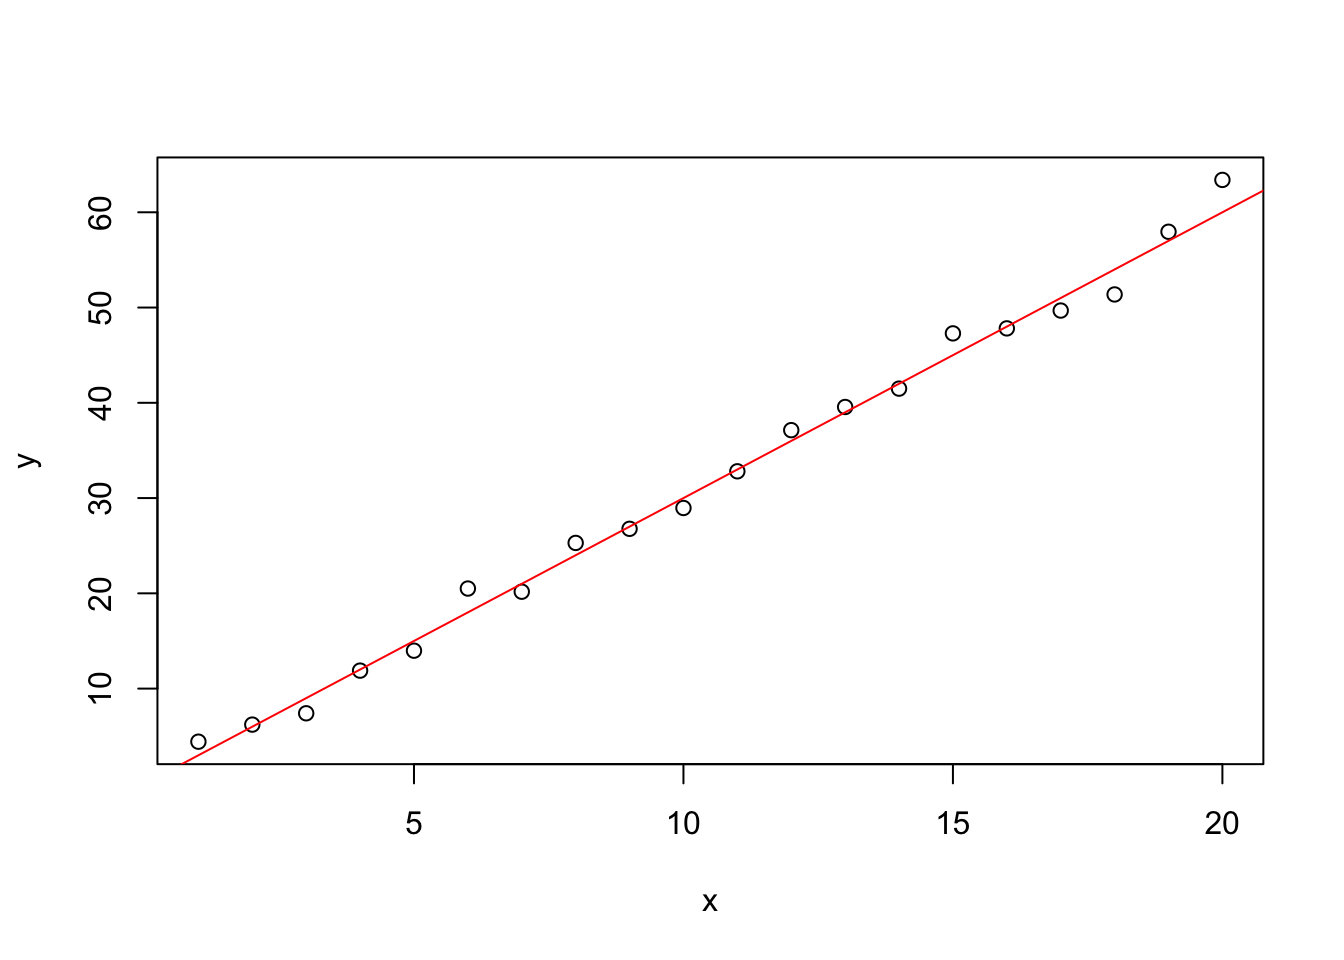
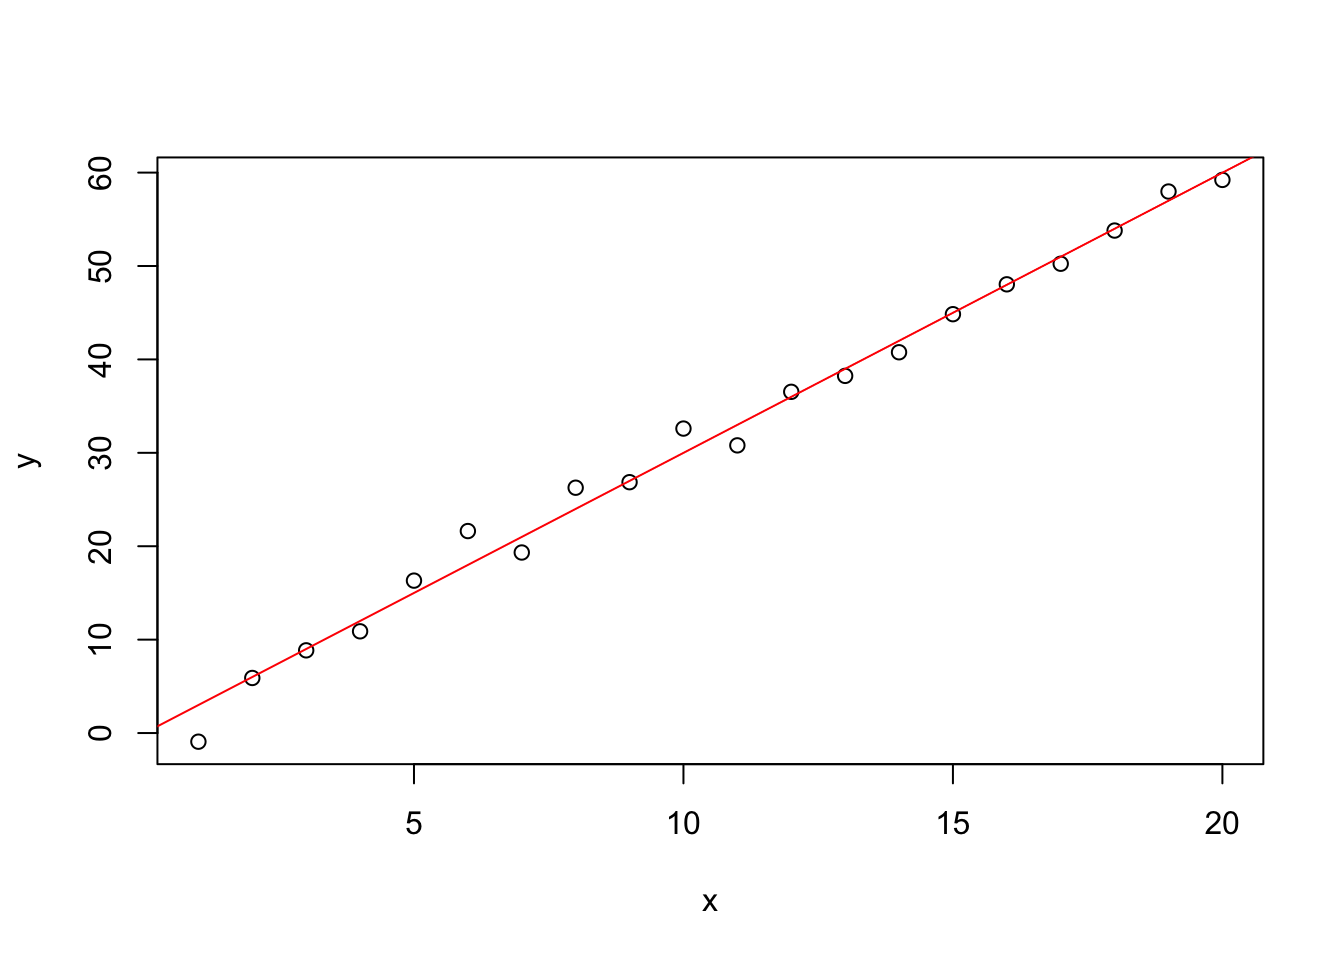
toyo97 published a site update

diff --git a/introduction.html b/introduction.html
@@ -24,7 +24,7 @@
 <meta name="author" content="Mauro Gasparini" />
 
 
-<meta name="date" content="2022-10-18" />
+<meta name="date" content="2022-10-25" />
 
   <meta name="viewport" content="width=device-width, initial-scale=1" />
   <meta name="apple-mobile-web-app-capable" content="yes" />
@@ -303,8 +303,8 @@ function argument passing (as introduced in <a href="introduction.html#functions
 <span id="cb11-2"><a href="introduction.html#cb11-2" aria-hidden="true" tabindex="-1"></a>array <span class="ot">&lt;-</span> <span class="fu">rnorm</span>(<span class="dv">10</span>, <span class="at">sd =</span> <span class="dv">10</span>) <span class="co"># sd is an argument, </span></span>
 <span id="cb11-3"><a href="introduction.html#cb11-3" aria-hidden="true" tabindex="-1"></a>                            <span class="co"># the mean is left to the default 0</span></span>
 <span id="cb11-4"><a href="introduction.html#cb11-4" aria-hidden="true" tabindex="-1"></a>array</span></code></pre></div>
-<pre><code>##  [1]  10.8837444   6.7989252 -12.9583565  -3.1014299  -4.2556705   5.7348895
-##  [7]   1.5498329  -2.1128799   0.1357968  12.9736815</code></pre>
+<pre><code>##  [1]  -5.8495927   3.0658810   3.1505459 -13.1579684  10.9447088  -7.6798204
+##  [7]  -0.1463405   7.0969139   6.4236959   1.8957723</code></pre>
 <p>You can explicitly call the arguments to which you want to pass the parameters
 (e.g. sd of the Gaussian). In this case it is necessary, because the second
 position argument is the mean, but we want it to be the default.</p>
@@ -657,26 +657,26 @@ most of the dataset will be stored in dataframes.</p>
 <span id="cb111-4"><a href="introduction.html#cb111-4" aria-hidden="true" tabindex="-1"></a>df1 <span class="co"># x was set to just one value and gets repeated (&#39;recycled&#39;)</span></span></code></pre></div>
 <pre><code>##    x  y char
 ## 1  1  1    b
-## 2  1  2    b
-## 3  1  3    b
-## 4  1  4    a
+## 2  1  2    a
+## 3  1  3    a
+## 4  1  4    b
 ## 5  1  5    a
 ## 6  1  6    b
 ## 7  1  7    b
-## 8  1  8    b
-## 9  1  9    b
-## 10 1 10    b</code></pre>
+## 8  1  8    a
+## 9  1  9    a
+## 10 1 10    a</code></pre>
 <div class="sourceCode" id="cb113"><pre class="sourceCode r"><code class="sourceCode r"><span id="cb113-1"><a href="introduction.html#cb113-1" aria-hidden="true" tabindex="-1"></a>df1[[<span class="dv">2</span>]] <span class="co"># access through column index</span></span></code></pre></div>
 <pre><code>##  [1]  1  2  3  4  5  6  7  8  9 10</code></pre>
 <div class="sourceCode" id="cb115"><pre class="sourceCode r"><code class="sourceCode r"><span id="cb115-1"><a href="introduction.html#cb115-1" aria-hidden="true" tabindex="-1"></a>df1<span class="sc">$</span>x <span class="co"># access through column name</span></span></code></pre></div>
 <pre><code>##  [1] 1 1 1 1 1 1 1 1 1 1</code></pre>
 <div class="sourceCode" id="cb117"><pre class="sourceCode r"><code class="sourceCode r"><span id="cb117-1"><a href="introduction.html#cb117-1" aria-hidden="true" tabindex="-1"></a>df1[, <span class="dv">3</span>] <span class="co"># access with matrix-style index</span></span></code></pre></div>
-<pre><code>##  [1] &quot;b&quot; &quot;b&quot; &quot;b&quot; &quot;a&quot; &quot;a&quot; &quot;b&quot; &quot;b&quot; &quot;b&quot; &quot;b&quot; &quot;b&quot;</code></pre>
+<pre><code>##  [1] &quot;b&quot; &quot;a&quot; &quot;a&quot; &quot;b&quot; &quot;a&quot; &quot;b&quot; &quot;b&quot; &quot;a&quot; &quot;a&quot; &quot;a&quot;</code></pre>
 <div class="sourceCode" id="cb119"><pre class="sourceCode r"><code class="sourceCode r"><span id="cb119-1"><a href="introduction.html#cb119-1" aria-hidden="true" tabindex="-1"></a>df1[<span class="dv">2</span><span class="sc">:</span><span class="dv">4</span>, ] <span class="co"># can also select subset of rows</span></span></code></pre></div>
 <pre><code>##   x y char
-## 2 1 2    b
-## 3 1 3    b
-## 4 1 4    a</code></pre>
+## 2 1 2    a
+## 3 1 3    a
+## 4 1 4    b</code></pre>
 <p>The <code>dplyr</code> library provides another dataframe object (called <em>tibble</em>) which has all
 the effective features of Base R <code>data.frame</code> and none of the
 deprecated functionalities. It’s simply a newer version of dataframes (therefore
@@ -889,14 +889,14 @@ These functions are usually divided into four categories:</p>
 <div class="sourceCode" id="cb140"><pre class="sourceCode r"><code class="sourceCode r"><span id="cb140-1"><a href="introduction.html#cb140-1" aria-hidden="true" tabindex="-1"></a>n <span class="ot">&lt;-</span> <span class="dv">10</span></span>
 <span id="cb140-2"><a href="introduction.html#cb140-2" aria-hidden="true" tabindex="-1"></a>normal_samples <span class="ot">&lt;-</span> <span class="fu">rnorm</span>(<span class="at">n =</span> n, <span class="at">mean =</span> <span class="dv">0</span>, <span class="at">sd =</span> <span class="dv">1</span>) <span class="co"># sample 10 Gaussian samples</span></span>
 <span id="cb140-3"><a href="introduction.html#cb140-3" aria-hidden="true" tabindex="-1"></a>normal_samples</span></code></pre></div>
-<pre><code>##  [1]  0.89279866 -0.33389029 -0.47705815 -2.53133833  0.31642973 -0.61220745
-##  [7]  0.09235882 -0.01609202 -0.33544102 -0.16638486</code></pre>
+<pre><code>##  [1]  0.79795015 -0.55154464  1.31499245 -0.18896906  0.06057539 -0.98001146
+##  [7]  0.81927332 -1.07642442  0.10246178 -0.48029332</code></pre>
 <div class="sourceCode" id="cb142"><pre class="sourceCode r"><code class="sourceCode r"><span id="cb142-1"><a href="introduction.html#cb142-1" aria-hidden="true" tabindex="-1"></a><span class="fu">dnorm</span>(normal_samples, <span class="at">mean =</span> <span class="dv">2</span>, <span class="at">sd =</span> <span class="dv">1</span>) <span class="co"># compute the density function (over another Normal)</span></span></code></pre></div>
-<pre><code>##  [1] 2.161277e-01 2.618783e-02 1.855813e-02 1.387458e-05 9.669989e-02
-##  [6] 1.315764e-02 6.466818e-02 5.227422e-02 2.609319e-02 3.817592e-02</code></pre>
+<pre><code>##  [1] 0.193708573 0.015388596 0.315512744 0.036343812 0.060833026 0.004704797
+##  [7] 0.198692619 0.003513537 0.065923244 0.018409913</code></pre>
 <div class="sourceCode" id="cb144"><pre class="sourceCode r"><code class="sourceCode r"><span id="cb144-1"><a href="introduction.html#cb144-1" aria-hidden="true" tabindex="-1"></a><span class="fu">pnorm</span>(normal_samples, <span class="at">mean =</span> <span class="dv">0</span>, <span class="at">sd =</span> <span class="dv">1</span>) <span class="co"># cumulative distribution function</span></span></code></pre></div>
-<pre><code>##  [1] 0.814017499 0.369231174 0.316660358 0.005681409 0.624161822 0.270200257
-##  [7] 0.536793522 0.493580491 0.368646214 0.433927044</code></pre>
+<pre><code>##  [1] 0.7875503 0.2906302 0.9057438 0.4250585 0.5241513 0.1635402 0.7936848
+##  [8] 0.1408687 0.5408049 0.3155094</code></pre>
 <div class="sourceCode" id="cb146"><pre class="sourceCode r"><code class="sourceCode r"><span id="cb146-1"><a href="introduction.html#cb146-1" aria-hidden="true" tabindex="-1"></a><span class="fu">qnorm</span>(<span class="fu">c</span>(<span class="fl">0.05</span>, <span class="fl">0.95</span>), <span class="at">mean =</span> <span class="dv">0</span>, <span class="at">sd =</span> <span class="dv">1</span>) <span class="co"># get the quantiles of a normal</span></span></code></pre></div>
 <pre><code>## [1] -1.644854  1.644854</code></pre>
 </div>
@@ -963,9 +963,9 @@ Here an example where using <code>=</code> rather than <code>&lt;-</code> makes 
 <pre><code>## Error in eval(substitute(expr), e): argument is missing, with no default</code></pre>
 <div class="sourceCode" id="cb159"><pre class="sourceCode r"><code class="sourceCode r"><span id="cb159-1"><a href="introduction.html#cb159-1" aria-hidden="true" tabindex="-1"></a><span class="co"># &#39;b&lt;-a^2&#39; is the value passed to the expr argument of within()</span></span>
 <span id="cb159-2"><a href="introduction.html#cb159-2" aria-hidden="true" tabindex="-1"></a><span class="fu">within</span>(<span class="fu">data.frame</span>(<span class="at">a =</span> <span class="fu">rnorm</span>(<span class="dv">2</span>)), b <span class="ot">&lt;-</span> a<span class="sc">^</span><span class="dv">2</span>) </span></code></pre></div>
-<pre><code>##            a         b
-## 1  1.0891066 1.1861533
-## 2 -0.5799111 0.3362969</code></pre>
+<pre><code>##             a          b
+## 1 -0.03521108 0.00123982
+## 2  0.13375515 0.01789044</code></pre>
 <p>Although this event might never occur in one’s programming experience, it’s
 safer (and more elegant) to use <code>&lt;-</code> when assigning variable.</p>
 <p>Besides, <code>-&gt;</code> is also valid and it is used (more intuitive) when assigning pipes

diff --git a/some-elementary-statistics-problems.html b/some-elementary-statistics-problems.html
@@ -24,7 +24,7 @@
 <meta name="author" content="Mauro Gasparini" />
 
 
-<meta name="date" content="2022-10-18" />
+<meta name="date" content="2022-10-25" />
 
   <meta name="viewport" content="width=device-width, initial-scale=1" />
   <meta name="apple-mobile-web-app-capable" content="yes" />
@@ -697,33 +697,34 @@ Under the null hypothesis, in the unilateral case, we compute the p-value as</p>
 P(Z \geq z | H_0) = 1 - \Phi(z)\,,
 \]</span>
 where <span class="math inline">\(z\)</span> is the realization of <span class="math inline">\(Z\)</span> given that the realization of
-<span class="math inline">\(X\)</span> is <span class="math inline">\(x = 20\)</span>.</p>
+<span class="math inline">\(X\)</span> is <span class="math inline">\(x = 200\)</span> (considered to be large enough for the approximation).</p>
 <p>In R:</p>
-<div class="sourceCode" id="cb198"><pre class="sourceCode r"><code class="sourceCode r"><span id="cb198-1"><a href="some-elementary-statistics-problems.html#cb198-1" aria-hidden="true" tabindex="-1"></a>n <span class="ot">&lt;-</span> <span class="dv">380</span></span>
-<span id="cb198-2"><a href="some-elementary-statistics-problems.html#cb198-2" aria-hidden="true" tabindex="-1"></a>z <span class="ot">&lt;-</span> (<span class="dv">200</span> <span class="sc">-</span> n <span class="sc">*</span> p0)<span class="sc">/</span><span class="fu">sqrt</span>(n <span class="sc">*</span> p0 <span class="sc">*</span> (<span class="dv">1</span><span class="sc">-</span>p0))</span>
-<span id="cb198-3"><a href="some-elementary-statistics-problems.html#cb198-3" aria-hidden="true" tabindex="-1"></a><span class="fu">pnorm</span>(z, <span class="at">lower.tail =</span> <span class="cn">FALSE</span>)</span></code></pre></div>
-<pre><code>## [1] 0.06016385</code></pre>
+<div class="sourceCode" id="cb198"><pre class="sourceCode r"><code class="sourceCode r"><span id="cb198-1"><a href="some-elementary-statistics-problems.html#cb198-1" aria-hidden="true" tabindex="-1"></a>n <span class="ot">&lt;-</span> <span class="dv">300</span></span>
+<span id="cb198-2"><a href="some-elementary-statistics-problems.html#cb198-2" aria-hidden="true" tabindex="-1"></a>x <span class="ot">&lt;-</span> <span class="dv">200</span></span>
+<span id="cb198-3"><a href="some-elementary-statistics-problems.html#cb198-3" aria-hidden="true" tabindex="-1"></a>z <span class="ot">&lt;-</span> (x <span class="sc">-</span> n <span class="sc">*</span> p0)<span class="sc">/</span><span class="fu">sqrt</span>(n <span class="sc">*</span> p0 <span class="sc">*</span> (<span class="dv">1</span><span class="sc">-</span>p0))</span>
+<span id="cb198-4"><a href="some-elementary-statistics-problems.html#cb198-4" aria-hidden="true" tabindex="-1"></a><span class="fu">pnorm</span>(z, <span class="at">lower.tail =</span> <span class="cn">FALSE</span>)</span></code></pre></div>
+<pre><code>## [1] 2.133891e-10</code></pre>
 <p>or, using the R proportion test <code>prop.test</code></p>
 <div class="sourceCode" id="cb200"><pre class="sourceCode r"><code class="sourceCode r"><span id="cb200-1"><a href="some-elementary-statistics-problems.html#cb200-1" aria-hidden="true" tabindex="-1"></a>?prop.test</span></code></pre></div>
-<div class="sourceCode" id="cb201"><pre class="sourceCode r"><code class="sourceCode r"><span id="cb201-1"><a href="some-elementary-statistics-problems.html#cb201-1" aria-hidden="true" tabindex="-1"></a><span class="fu">prop.test</span>(<span class="dv">200</span>, n, <span class="at">p =</span> p0) <span class="co"># uses continuity correction</span></span></code></pre></div>
+<div class="sourceCode" id="cb201"><pre class="sourceCode r"><code class="sourceCode r"><span id="cb201-1"><a href="some-elementary-statistics-problems.html#cb201-1" aria-hidden="true" tabindex="-1"></a><span class="fu">prop.test</span>(x, n, <span class="at">p =</span> p0, <span class="at">alternative =</span> <span class="st">&quot;greater&quot;</span>) <span class="co"># uses continuity correction</span></span></code></pre></div>
 <pre><code>## 
 ##  1-sample proportions test with continuity correction
 ## 
-## data:  200 out of n, null probability p0
-## X-squared = 2.2562, df = 1, p-value = 0.1331
-## alternative hypothesis: true p is not equal to 0.4864865
+## data:  x out of n, null probability p0
+## X-squared = 38.268, df = 1, p-value = 3.083e-10
+## alternative hypothesis: true p is greater than 0.4864865
 ## 95 percent confidence interval:
-##  0.4747919 0.5772992
+##  0.6188788 1.0000000
 ## sample estimates:
 ##         p 
-## 0.5263158</code></pre>
+## 0.6666667</code></pre>
 <p>Notice that the result is not exactly the same. This is due to the fact
 that we are approximating a discrete probability sum with an integral of
 a Gaussian. To correct for this, it’s enough to subtract (or add, depending
 on the case) <code>.5</code> to the <span class="math inline">\(x\)</span> value.</p>
-<div class="sourceCode" id="cb203"><pre class="sourceCode r"><code class="sourceCode r"><span id="cb203-1"><a href="some-elementary-statistics-problems.html#cb203-1" aria-hidden="true" tabindex="-1"></a>z_corr <span class="ot">&lt;-</span> (<span class="dv">200</span> <span class="sc">-</span> .<span class="dv">5</span> <span class="sc">-</span> n <span class="sc">*</span> p0)<span class="sc">/</span><span class="fu">sqrt</span>(n <span class="sc">*</span> p0 <span class="sc">*</span> (<span class="dv">1</span><span class="sc">-</span>p0))</span>
+<div class="sourceCode" id="cb203"><pre class="sourceCode r"><code class="sourceCode r"><span id="cb203-1"><a href="some-elementary-statistics-problems.html#cb203-1" aria-hidden="true" tabindex="-1"></a>z_corr <span class="ot">&lt;-</span> (x <span class="sc">-</span> .<span class="dv">5</span> <span class="sc">-</span> n <span class="sc">*</span> p0)<span class="sc">/</span><span class="fu">sqrt</span>(n <span class="sc">*</span> p0 <span class="sc">*</span> (<span class="dv">1</span><span class="sc">-</span>p0))</span>
 <span id="cb203-2"><a href="some-elementary-statistics-problems.html#cb203-2" aria-hidden="true" tabindex="-1"></a><span class="fu">pnorm</span>(z_corr, <span class="at">lower.tail =</span> <span class="cn">FALSE</span>)</span></code></pre></div>
-<pre><code>## [1] 0.06653798</code></pre>
+<pre><code>## [1] 3.082581e-10</code></pre>
 <blockquote>
 <p>The bilateral case with Normal approximation is left to the reader as exercise</p>
 </blockquote>

diff --git a/index.html b/index.html
@@ -24,7 +24,7 @@
 <meta name="author" content="Mauro Gasparini" />
 
 
-<meta name="date" content="2022-10-18" />
+<meta name="date" content="2022-10-25" />
 
   <meta name="viewport" content="width=device-width, initial-scale=1" />
   <meta name="apple-mobile-web-app-capable" content="yes" />
@@ -234,7 +234,7 @@ code span.wa { color: #60a0b0; font-weight: bold; font-style: italic; } /* Warni
 <h1 class="title">Statistical Models in R</h1>
 <p class="author"><em>Vittorio Zampinetti<a href="#fn1" class="footnote-ref" id="fnref1"><sup>1</sup></a></em></p>
 <p class="author"><em>Mauro Gasparini<a href="#fn2" class="footnote-ref" id="fnref2"><sup>2</sup></a></em></p>
-<p class="date"><em>2022-10-18</em></p>
+<p class="date"><em>2022-10-25</em></p>
 </div>
 <div id="about" class="section level1 unnumbered hasAnchor">
 <h1>About<a href="index.html#about" class="anchor-section" aria-label="Anchor link to header"></a></h1>

diff --git a/404.html b/404.html
@@ -24,7 +24,7 @@
 <meta name="author" content="Mauro Gasparini" />
 
 
-<meta name="date" content="2022-10-18" />
+<meta name="date" content="2022-10-25" />
 
   <meta name="viewport" content="width=device-width, initial-scale=1" />
   <meta name="apple-mobile-web-app-capable" content="yes" />

diff --git a/lab-1.html b/lab-1.html
@@ -24,7 +24,7 @@
 <meta name="author" content="Mauro Gasparini" />
 
 
-<meta name="date" content="2022-10-18" />
+<meta name="date" content="2022-10-25" />
 
   <meta name="viewport" content="width=device-width, initial-scale=1" />
   <meta name="apple-mobile-web-app-capable" content="yes" />

diff --git a/normal-sampling.html b/normal-sampling.html
@@ -24,7 +24,7 @@
 <meta name="author" content="Mauro Gasparini" />
 
 
-<meta name="date" content="2022-10-18" />
+<meta name="date" content="2022-10-25" />
 
   <meta name="viewport" content="width=device-width, initial-scale=1" />
   <meta name="apple-mobile-web-app-capable" content="yes" />

diff --git a/references.html b/references.html
@@ -24,7 +24,7 @@
 <meta name="author" content="Mauro Gasparini" />
 
 
-<meta name="date" content="2022-10-18" />
+<meta name="date" content="2022-10-25" />
 
   <meta name="viewport" content="width=device-width, initial-scale=1" />
   <meta name="apple-mobile-web-app-capable" content="yes" />
